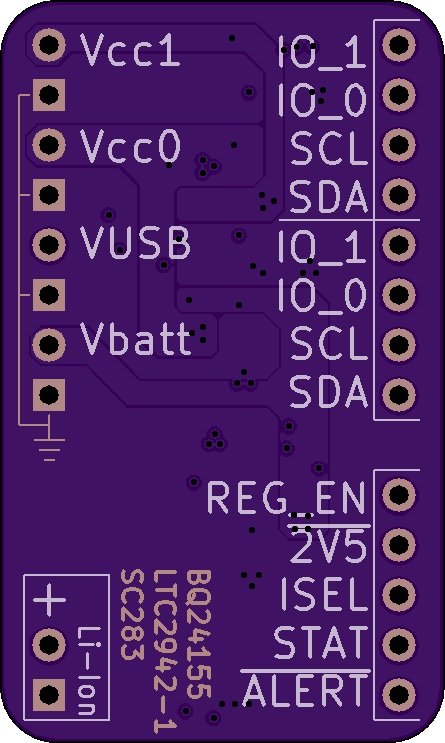
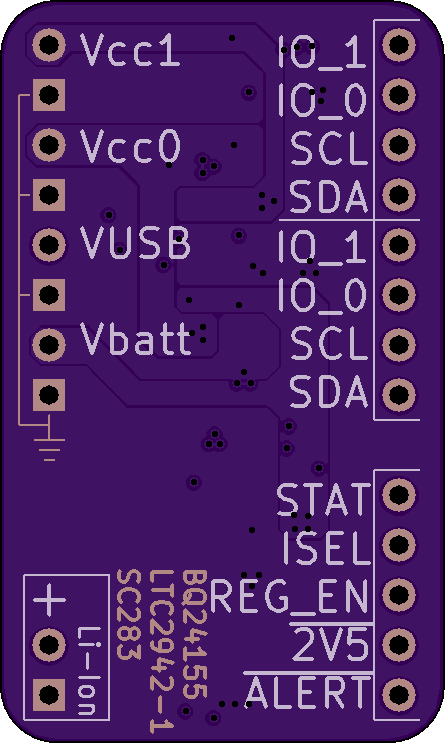
Fixed silkscreen mistake.

Changed region(s): [[0.2629, 0.6501, 0.8472, 0.9906]]

diff --git a/PowerPlant-Module/README.md b/PowerPlant-Module/README.md
@@ -38,4 +38,4 @@ Front | Back
 ![Front](osh-render-front.png)  | ![Back](osh-render-back.png)
 
 
-[<img src="https://oshpark.com/assets/badge-5b7ec47045b78aef6eb9d83b3bac6b1920de805e9a0c227658eac6e19a045b9c.png" alt="Order from OSH Park">](https://oshpark.com/shared_projects/sjkcPHEl)
+[<img src="https://oshpark.com/assets/badge-5b7ec47045b78aef6eb9d83b3bac6b1920de805e9a0c227658eac6e19a045b9c.png" alt="Order from OSH Park">](https://oshpark.com/shared_projects/OGOq8sZ7)
